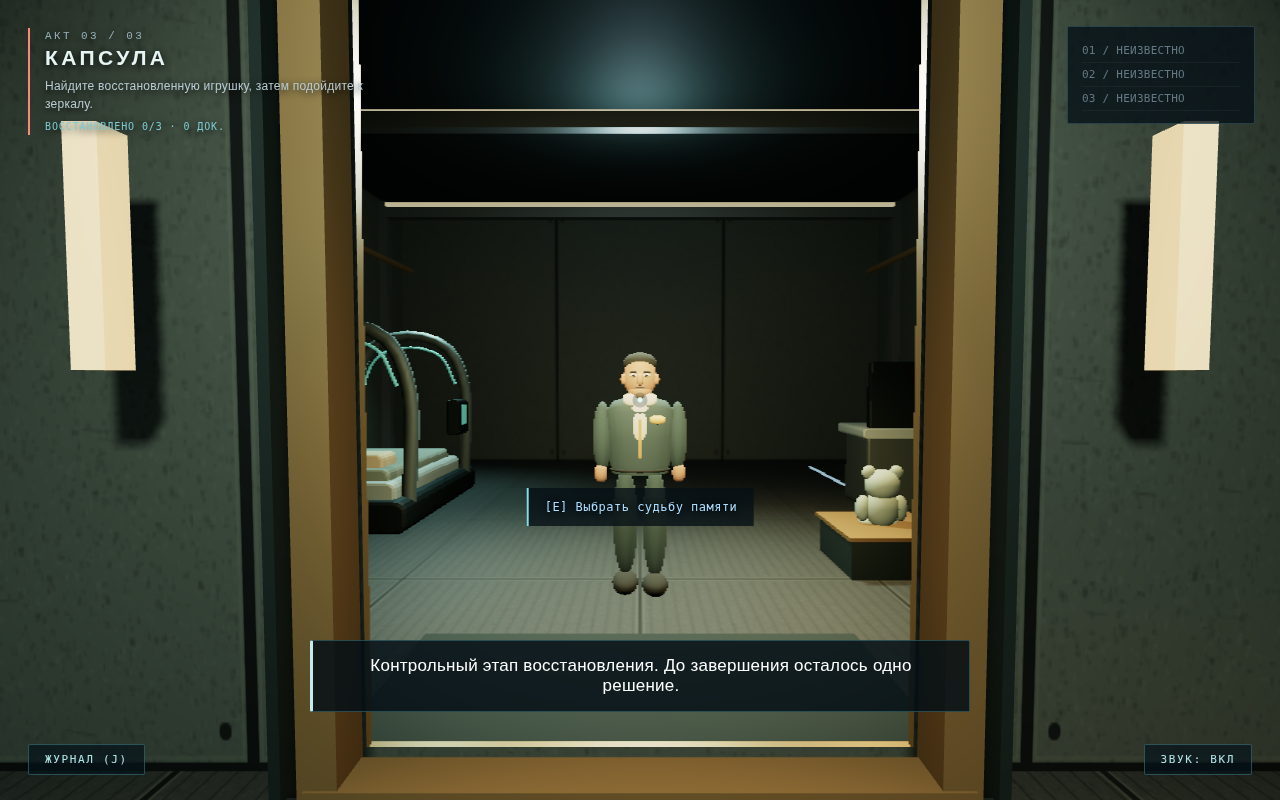
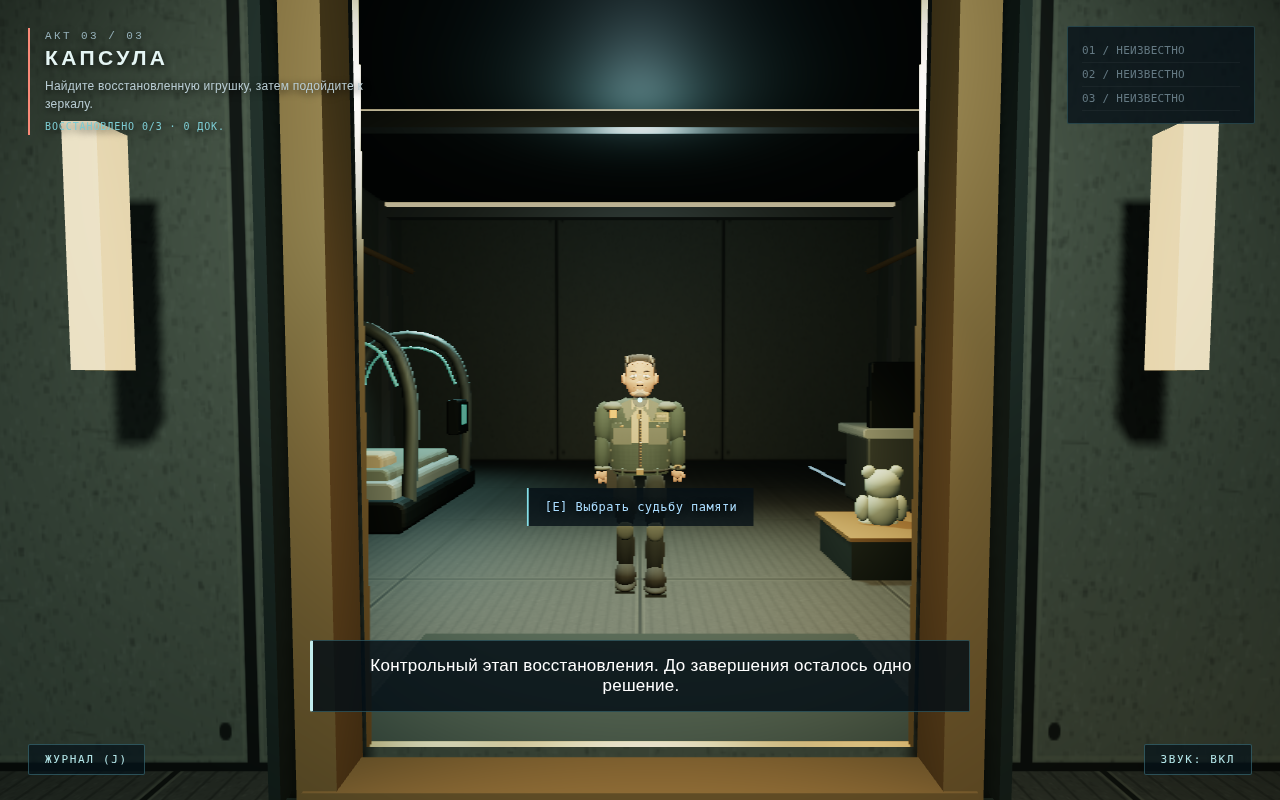
Detail the engineer's face, workwear and articulated hands

Changed region(s): [[0.4375, 0.4375, 0.5625, 0.625], [0.4688, 0.6562, 0.5312, 0.75]]

diff --git a/src/engineer.js b/src/engineer.js
@@ -1,0 +1,156 @@
+import * as THREE from 'three';
+import { mergeGeometries } from '../assets/vendor/utils/BufferGeometryUtils.js';
+
+// Original, articulated stylized character; dimensions are in metres.
+export function createEngineer() {
+    const root=new THREE.Group();root.name='engineer-reflection';
+    function fabric(){
+        const c=document.createElement('canvas');c.width=c.height=128;const x=c.getContext('2d');
+        x.fillStyle='#c3c3ba';x.fillRect(0,0,128,128);
+        for(let i=0;i<128;i+=3){x.fillStyle=i%2?'#b5b6ad':'#d0d0c7';x.fillRect(i,0,1,128);x.fillRect(0,i,128,1);}
+        const map=new THREE.CanvasTexture(c);map.colorSpace=THREE.SRGBColorSpace;
+        map.wrapS=map.wrapT=THREE.RepeatWrapping;map.repeat.set(3,3);return map;
+    }
+    const weave=fabric();
+    const skin=new THREE.MeshStandardMaterial({color:0x9e8068,roughness:.88});
+    const crease=new THREE.MeshStandardMaterial({color:0x745a48,roughness:.95});
+    const coat=new THREE.MeshStandardMaterial({color:0x495c57,roughness:.86,map:weave,bumpMap:weave,bumpScale:.001});
+    const panel=new THREE.MeshStandardMaterial({color:0x66716a,roughness:.9,map:weave});
+    const trousers=new THREE.MeshStandardMaterial({color:0x333d3c,roughness:.94,map:weave});
+    const shirt=new THREE.MeshStandardMaterial({color:0xb4ac93,roughness:.97,map:weave});
+    const leather=new THREE.MeshStandardMaterial({color:0x292d28,roughness:.75});
+    const hair=new THREE.MeshStandardMaterial({color:0x302e28,roughness:.98});
+    const gray=new THREE.MeshStandardMaterial({color:0x68675b,roughness:.97});
+    const stubble=new THREE.MeshStandardMaterial({color:0x806c57,roughness:1});
+    const white=new THREE.MeshStandardMaterial({color:0xbdbdaf,roughness:.65});
+    const iris=new THREE.MeshStandardMaterial({color:0x495d54,roughness:.45});
+    const pupil=new THREE.MeshStandardMaterial({color:0x121a18,roughness:.3});
+    const metal=new THREE.MeshStandardMaterial({color:0xa7956d,metalness:.65,roughness:.48});
+    const orange=new THREE.MeshStandardMaterial({color:0xb88248,roughness:.9});
+    function mesh(parent,geometry,material,pos=[0,0,0]){const m=new THREE.Mesh(geometry,material);m.position.set(...pos);parent.add(m);return m;}
+    function oval(parent,pos,size,material){const m=mesh(parent,new THREE.SphereGeometry(1,24,18),material,pos);m.scale.set(...size);return m;}
+    function box(parent,pos,size,material){return mesh(parent,new THREE.BoxGeometry(...size),material,pos);}
+    function seam(parent,points,r=.0015,material=panel){return mesh(parent,new THREE.TubeGeometry(new THREE.CatmullRomCurve3(points.map(p=>new THREE.Vector3(...p))),12,r,5,false),material);}
+    function patch(parent,points,material){
+        const geometry=new THREE.BufferGeometry();const vertices=[];
+        for(let i=1;i<points.length-1;i++)vertices.push(...points[0],...points[i],...points[i+1]);
+        geometry.setAttribute('position',new THREE.Float32BufferAttribute(vertices,3));geometry.computeVertexNormals();
+        return mesh(parent,geometry,material);
+    }
+    const torso=mesh(root,new THREE.LatheGeometry([[.13,0],[.14,.07],[.145,.27],[.16,.46],[.12,.55],[.065,.58]].map(p=>new THREE.Vector2(...p)),32),coat,[0,.96,0]);torso.scale.x=1.65;
+    box(root,[0,1.37,.163],[.115,.32,.02],shirt);
+    for(const s of [-1,1]){
+        // Folded lapels, shoulder reinforcement and functional chest pockets.
+        patch(root,[[s*.04,1.55,.15],[s*.14,1.5,.16],[s*.095,1.37,.188],[s*.018,1.47,.188]],panel).material.side=THREE.DoubleSide;
+        oval(root,[s*.195,1.47,.01],[.085,.045,.128],panel);
+        box(root,[s*.135,1.27,.153],[.135,.14,.026],panel);
+        box(root,[s*.135,1.34,.172],[.145,.038,.012],coat);
+        oval(root,[s*.135,1.337,.183],[.009,.009,.003],metal);
+        seam(root,[[s*.202,1.2,.17],[s*.202,1.35,.17],[s*.067,1.35,.17]]);
+        seam(root,[[s*.22,1.4,.095],[s*.23,1.24,.1],[s*.2,1.02,.11]]);
+    }
+    box(root,[0,1.24,.18],[.016,.43,.01],leather);
+    for(let i=0;i<19;i++)box(root,[0,1.045+i*.021,.19],[.012,.007,.005],metal);
+    box(root,[.012,1.41,.194],[.02,.035,.006],metal);
+    // Embroidered ECHO badge, rendered as a local texture.
+    const c=document.createElement('canvas');c.width=256;c.height=128;const ctx=c.getContext('2d');
+    ctx.fillStyle='#283c35';ctx.fillRect(0,0,256,128);ctx.strokeStyle='#a39b70';ctx.lineWidth=8;ctx.strokeRect(7,7,242,114);
+    ctx.fillStyle='#d0c5a3';ctx.font='bold 43px sans-serif';ctx.fillText('ECHO',24,57);ctx.font='22px sans-serif';ctx.fillText('ENGINEERING',20,94);
+    const badge=new THREE.CanvasTexture(c);badge.colorSpace=THREE.SRGBColorSpace;
+    mesh(root,new THREE.PlaneGeometry(.14,.07),new THREE.MeshStandardMaterial({map:badge,roughness:.95}),[-.135,1.4,.16]);
+    box(root,[.2,1.44,.115],[.04,.09,.018],orange);
+    oval(root,[0,.99,0],[.23,.035,.145],leather);box(root,[0,.99,.145],[.055,.042,.012],metal);
+    box(root,[.215,.92,0],[.075,.15,.105],leather);
+    for(const s of [-1,1])box(root,[s*.13,.99,.14],[.02,.055,.012],coat);
+
+    const head=new THREE.Group();head.name='engineer-head';head.position.y=1.65;root.add(head);
+    oval(head,[0,-.09,-.005],[.058,.105,.057],skin);
+    // Sculpt the jaw/temples into the base mesh instead of stacking round cheeks.
+    const skull=new THREE.SphereGeometry(1,40,32),p=skull.attributes.position;
+    for(let i=0;i<p.count;i++){
+        const x=p.getX(i),y=p.getY(i),z=p.getZ(i);
+        const jaw=y<-.2 ? 1-(Math.abs(y)-.2)*.24 : 1;
+        p.setXYZ(i,x*.118*jaw,y*.166+.04,z*.112+(y<0?.012:0));
+    }
+    skull.computeVertexNormals();mesh(head,skull,skin);
+    oval(head,[0,-.074,.045],[.071,.037,.068],skin);
+    oval(head,[0,.035,.113],[.018,.045,.025],skin);
+    oval(head,[0,.006,.137],[.025,.017,.018],skin);
+    for(const s of [-1,1]){
+        oval(head,[s*.019,.003,.129],[.012,.011,.014],skin);
+        oval(head,[s*.015,-.002,.139],[.006,.003,.003],crease);
+        oval(head,[s*.12,.035,-.004],[.023,.041,.02],skin);
+        oval(head,[s*.132,.035,.006],[.007,.024,.008],crease);
+        oval(head,[s*.049,.055,.104],[.03,.018,.01],skin);
+        oval(head,[s*.048,.06,.113],[.025,.011,.008],white);
+        oval(head,[s*.048,.06,.12],[.008,.009,.003],iris);
+        oval(head,[s*.048,.06,.123],[.0038,.006,.002],pupil);
+        seam(head,[[s*.023,.069,.114],[s*.047,.075,.12],[s*.074,.066,.105]],.002,skin);
+        seam(head,[[s*.023,.048,.112],[s*.05,.04,.11],[s*.072,.049,.104]],.002,skin);
+        seam(head,[[s*.024,.091,.108],[s*.05,.1,.11],[s*.078,.091,.093]],.004,hair);
+        seam(head,[[s*.032,-.009,.108],[s*.045,-.027,.105],[s*.049,-.047,.095]],.001,crease);
+        // Short sideburns with a little gray at the temples.
+        oval(head,[s*.105,.095,-.015],[.017,.066,.07],hair);
+        seam(head,[[s*.113,.12,.014],[s*.118,.085,.018],[s*.116,.055,.01]],.003,gray);
+    }
+    seam(head,[[-.03,-.039,.108],[0,-.041,.116],[.03,-.039,.108]],.0025,crease);
+    oval(head,[0,-.047,.109],[.025,.005,.005],skin);
+    for(let row=0;row<3;row++)seam(head,[[-.061,.121+row*.014,.091],[0,.128+row*.014,.102],[.061,.121+row*.014,.091]],.0008,crease);
+    // Swept hair locks follow the scalp instead of forming a uniform cap.
+    oval(head,[0,.171,-.028],[.12,.055,.094],hair);
+    for(let i=0;i<9;i++){
+        const x=-.094+i*.023;
+        seam(head,[[x,.158,.068],[x+.012,.207,.016],[x+.018,.191,-.075]],.008,i%4===0?gray:hair);
+    }
+    // Individually placed short stubble marks leave the lips and cheekbones readable.
+    for(const s of [-1,1])for(let row=0;row<4;row++)for(let col=0;col<6;col++){
+        const x=s*(.013+col*.012),y=-.048-row*.012;
+        const ny=(y-.04)/.166,jaw=1-(Math.abs(ny)-.2)*.24;
+        const skullZ=Math.sqrt(Math.max(0,1-(x/(.118*jaw))**2-ny**2))*.112+.012;
+        const chinZ=.045+.068*Math.sqrt(Math.max(0,1-(x/.071)**2-((y+.074)/.037)**2));
+        const z=Math.max(skullZ,chinZ)+.0015;
+        seam(head,[[x,y,z],[x+s*.001,y-.004,z+.001]],.00065,stubble);
+    }
+    for(const s of [-1,1])for(let i=0;i<4;i++)seam(head,[[s*(.007+i*.005),-.021,.117],[s*(.008+i*.005),-.028,.116]],.0008,stubble);
+
+    const limbs=[];
+    for(const side of [-1,1]){
+        const leg=new THREE.Group();leg.name=`engineer-leg-${side}`;leg.position.set(side*.115,.96,0);root.add(leg);
+        oval(leg,[0,-.215,0],[.093,.245,.097],trousers);
+        oval(leg,[0,-.59,0],[.074,.23,.078],trousers);
+        oval(leg,[0,-.44,.068],[.065,.075,.018],panel);
+        seam(leg,[[side*.067,-.1,.03],[side*.069,-.4,.04],[side*.055,-.75,.032]],.0018,panel);
+        oval(leg,[0,-.81,.033],[.084,.105,.13],leather);
+        oval(leg,[0,-.865,.06],[.087,.034,.15],leather);
+        box(leg,[0,-.895,.045],[.155,.022,.24],trousers);
+        for(let i=0;i<4;i++)seam(leg,[[-.035,-.79-i*.015,.105+i*.006],[.035,-.79-i*.015,.105+i*.006]],.002,panel);
+        const arm=new THREE.Group();arm.name=`engineer-arm-${side}`;arm.position.set(side*.255,1.47,0);root.add(arm);
+        oval(arm,[side*.022,-.13,0],[.077,.17,.077],coat);
+        oval(arm,[side*.035,-.35,.015],[.062,.16,.065],coat);
+        oval(arm,[side*.034,-.28,-.04],[.052,.057,.025],panel);
+        oval(arm,[side*.035,-.47,.015],[.061,.025,.064],panel);
+        seam(arm,[[side*.082,-.1,.035],[side*.086,-.3,.045],[side*.075,-.45,.05]],.0015,shirt);
+        oval(arm,[side*.035,-.515,.02],[.041,.047,.027],skin);
+        for(let i=0;i<4;i++)oval(arm,[side*.035-.025+i*.016,-.56,.027],[.008,.026,.012],skin);
+        oval(arm,[side*.073,-.525,.035],[.014,.029,.014],skin).rotation.z=side*.35;
+        if(side===-1){oval(arm,[side*.035,-.46,.067],[.029,.025,.008],metal);oval(arm,[side*.035,-.46,.076],[.022,.018,.002],leather);}
+        limbs.push({leg,arm,side});
+    }
+    // Bake decorative parts by material within each articulated group.
+    // The face and seams add detail without hundreds of draw calls per reflection.
+    for(const group of [root,head,...limbs.flatMap(l=>[l.leg,l.arm])]){
+        const batches=new Map();
+        for(const child of [...group.children])if(child.isMesh){
+            child.updateMatrix();let g=child.geometry.index?child.geometry.toNonIndexed():child.geometry.clone();g.applyMatrix4(child.matrix);
+            // Textured patches need UVs; add neutral UVs for untextured custom polygons.
+            if(!g.attributes.uv)g.setAttribute('uv',new THREE.Float32BufferAttribute(new Float32Array(g.attributes.position.count*2),2));
+            if(!batches.has(child.material))batches.set(child.material,[]);batches.get(child.material).push(g);
+            group.remove(child);child.geometry.dispose();
+        }
+        for(const [material,geometries] of batches){
+            const combined=mergeGeometries(geometries);const m=mesh(group,combined,material);m.castShadow=m.receiveShadow=true;
+            geometries.forEach(g=>g.dispose());
+        }
+    }
+    return {root,head,limbs};
+}

diff --git a/src/mirror.js b/src/mirror.js
@@ -1,50 +1,6 @@
+import { createEngineer } from './engineer.js';
 import * as THREE from 'three';
 import { Reflector } from '../assets/vendor/Reflector.js';
-
-function createEngineer() {
-    const root = new THREE.Group(); root.name = 'engineer-reflection';
-    const skin = new THREE.MeshStandardMaterial({color:0x96795f,roughness:.88});
-    const coat = new THREE.MeshStandardMaterial({color:0x394d4c,roughness:.8});
-    const shirt = new THREE.MeshStandardMaterial({color:0xb7b8a4,roughness:.93});
-    const dark = new THREE.MeshStandardMaterial({color:0x292e29,roughness:.95});
-    const eye = new THREE.MeshStandardMaterial({color:0x171b18,roughness:.5});
-    const metal = new THREE.MeshStandardMaterial({color:0xc5ab6d,metalness:.5,roughness:.5});
-    const ellipsoid=(parent,pos,scale,material)=>{
-        const m=new THREE.Mesh(new THREE.SphereGeometry(1,20,16),material);
-        m.position.set(...pos);m.scale.set(...scale);m.castShadow=true;parent.add(m);return m;
-    };
-    const torso = new THREE.Mesh(new THREE.LatheGeometry([[.13,0],[.14,.08],[.15,.28],[.16,.48],[.12,.56],[.07,.58]].map(p=>new THREE.Vector2(...p)),24),coat);
-    torso.position.y=.96;torso.scale.x=1.65;root.add(torso);
-    ellipsoid(root,[0,1.38,.14],[.067,.17,.02],shirt);
-    // Collar, zipper, belt and an engineer's identification plate.
-    for(const side of [-1,1])ellipsoid(root,[side*.075,1.53,.142],[.055,.045,.019],shirt).rotation.z=side*.5;
-    ellipsoid(root,[0,1.25,.155],[.012,.18,.012],metal);
-    ellipsoid(root,[0,.99,0],[.23,.035,.14],dark);
-    ellipsoid(root,[-.13,1.38,.15],[.06,.034,.015],metal);
-    const head=new THREE.Group();head.position.y=1.65;root.add(head);
-    ellipsoid(head,[0,.05,0],[.125,.17,.12],skin);
-    ellipsoid(head,[0,.16,-.025],[.128,.08,.11],dark);
-    ellipsoid(head,[0,-.055,.018],[.095,.075,.09],skin);
-    ellipsoid(head,[0,.035,.12],[.025,.047,.032],skin);
-    for(const side of [-1,1]){
-        ellipsoid(head,[side*.124,.035,0],[.024,.043,.025],skin);
-        ellipsoid(head,[side*.048,.068,.108],[.027,.013,.014],shirt);
-        ellipsoid(head,[side*.048,.068,.12],[.01,.01,.006],eye);
-        ellipsoid(head,[side*.049,.091,.108],[.032,.009,.01],dark);
-    }
-    ellipsoid(head,[0,-.025,.112],[.036,.006,.008],dark);
-    const limbs=[];
-    for(const side of [-1,1]){
-        const leg=new THREE.Group();leg.position.set(side*.115,.96,0);root.add(leg);
-        ellipsoid(leg,[0,-.39,0],[.095,.43,.095],coat);
-        ellipsoid(leg,[0,-.85,.045],[.1,.08,.17],dark);
-        const arm=new THREE.Group();arm.position.set(side*.255,1.47,0);root.add(arm);
-        ellipsoid(arm,[side*.035,-.23,0],[.075,.27,.075],coat);
-        ellipsoid(arm,[side*.045,-.51,.015],[.05,.075,.045],skin);
-        limbs.push({leg,arm,side});
-    }
-    return {root,head,limbs};
-}
 
 export function installMirror(game, interaction) {
     const {root:avatar,head,limbs}=createEngineer();

diff --git a/README.md b/README.md
@@ -140,3 +140,19 @@ npm test
 геометрию отражённой камеры и изменение пикселей отражения при скрытии
 персонажа. Повторные переходы между всеми актами не увеличивают число
 геометрий и текстур. FPS на реальных мобильных устройствах пока не измерен.
+
+
+## Образ инженера
+
+![Детализированный стилизованный инженер в зеркале](docs/engineer-portrait.png)
+
+Модель сохраняет сдержанную стилизацию. Уточнены челюсть, нос, веки,
+брови и уши; добавлены пряди волос с сединой, складки на лице и короткая
+щетина. Рабочая куртка получила воротник, накладные карманы, молнию, швы
+и нашивку ECHO. Дополнены кисти рук, часы, ремень, подсумок и ботинки.
+
+Исходник модели — `src/engineer.js`; части сгруппированы по материалам
+внутри головы, корпуса и подвижных конечностей. Текстуры ткани и нашивки
+создаются локально. Положение, поворот головы и шаги следуют за игроком.
+Браузерный тест проверяет эту синхронизацию и видимость тела только
+в отражении. На крупном плане для обзора лица скрыты прицел и субтитры.
